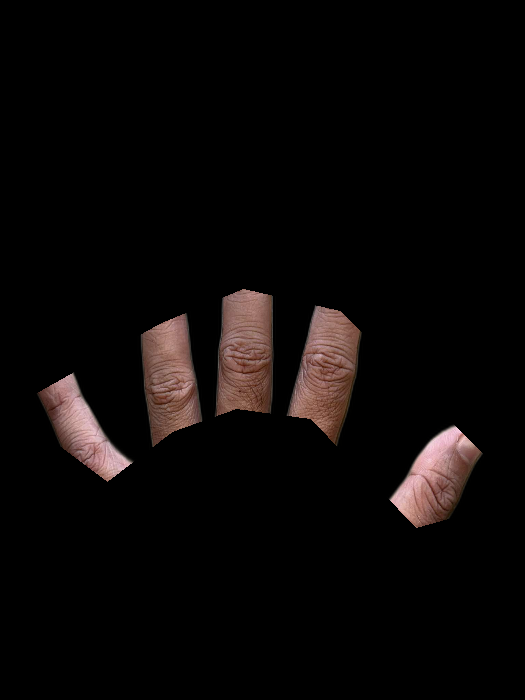
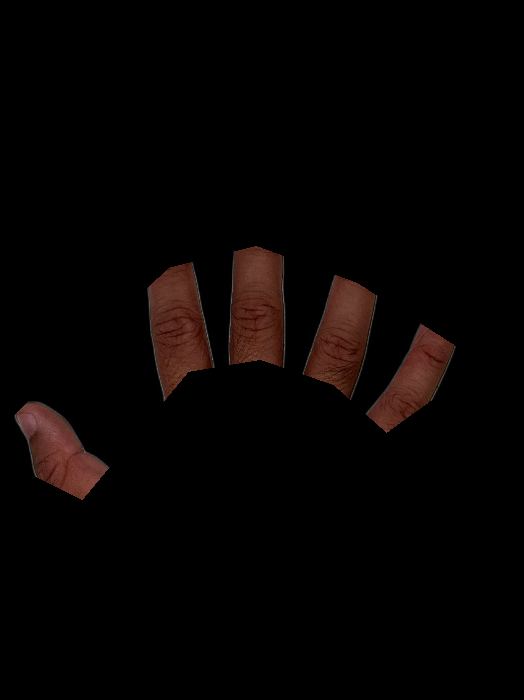
feat: final commit

diff --git a/server-api.py b/server-api.py
@@ -79,6 +79,20 @@ def trackWrist(image):
     return wrist, hand_label
 
 def removeBG(image):
+
+    # # Convert to float32 for more precise operations
+    # lab = cv2.cvtColor(image, cv2.COLOR_BGR2LAB)
+    # l, a, b = cv2.split(lab)
+
+    # # Reduce contrast by adjusting L-channel intensity
+    # l = cv2.addWeighted(l, 1.4, np.full(l.shape, 128, dtype=np.uint8), 0, 0)
+
+    # # Merge back and convert to BGR
+    # lab = cv2.merge((l, a, b))
+    # image = cv2.cvtColor(lab, cv2.COLOR_LAB2BGR)
+
+    # cv2.imwrite("processed/contrast_adjusted.jpg", image)
+
     if isinstance(image, np.ndarray):
         image = Image.fromarray(cv2.cvtColor(image, cv2.COLOR_BGR2RGB))
     else:
@@ -94,7 +108,11 @@ def removeBG(image):
             output_image = np.array(output_image)
         output_image = cv2.cvtColor(output_image, cv2.COLOR_RGB2BGR)
         
+        
+
         return output_image
+    
+        
     except Exception as e:
         print(f"Background removal error: {e}")
         return None
@@ -144,6 +162,7 @@ def measure_fingers():
     orig_image = cv2.imdecode(np.frombuffer(file.read(), np.uint8), cv2.IMREAD_COLOR)
     
     # Scale down image for faster processing
+    # scaled_image = orig_image
     scaled_image = scale_down_image(orig_image)
     
     noBG = removeBG(scaled_image)
@@ -151,12 +170,15 @@ def measure_fingers():
         return jsonify({"error", "Failed to remove background"}), 400
         
     # Detect coin in BG-removed image, if none present, default to orig img
+    cv2.imwrite("processed/removed_contrasted_image.jpg", noBG)
+
+
 
     coin_detected = detect_coin_contour(noBG)
     print("detected a coin:", coin_detected)
     finger_mask, hand_label = trackFinger(noBG)
     
-    #cv2.imwrite('processed/finger_mask.png', finger_mask)
+    cv2.imwrite('processed/finger_mask.png', finger_mask)
     
     calSizeImg = None
     
@@ -165,12 +187,12 @@ def measure_fingers():
     else:
         calSizeImg = noBG
         
-    #cv2.imwrite('processed/temp.jpg', calSizeImg)
+    cv2.imwrite('processed/temp.jpg', calSizeImg)
         
     data, processed_image = calsize.sizeCalculateFingers(calSizeImg, finger_mask, hand_label, reference_width)
     print('HAND LABEL {}'.format(hand_label))
     
-    #cv2.imwrite('processed/processed_image_fingers.jpg', processed_image)
+    cv2.imwrite('processed/processed_image_fingers.jpg', processed_image)
     
     # print(response)
     

diff --git a/calsize.py b/calsize.py
@@ -15,7 +15,7 @@ def sizeCalculateFingers(noBGorScaled, finger_mask, hand_label, reference_width)
     #cv2.imwrite('temp_image.jpg', noBGorScaled)
 
     gray = cv2.cvtColor(noBGorScaled, cv2.COLOR_BGR2GRAY)
-    blur = cv2.GaussianBlur(gray, (9, 9), 0)
+    blur = cv2.GaussianBlur(gray, (3, 3), 2)
 
     edged = cv2.Canny(blur, 50, 100)
     edged = cv2.dilate(edged, None, iterations=1)
@@ -61,6 +61,8 @@ def sizeCalculateFingers(noBGorScaled, finger_mask, hand_label, reference_width)
     # Find contours
     cnts = cv2.findContours(edged.copy(), cv2.RETR_EXTERNAL, cv2.CHAIN_APPROX_SIMPLE)
     cnts = imutils.grab_contours(cnts)
+
+    # print("count:", cnts)
 
     # Sort contours from left to right as leftmost contour is reference object
     (cnts, _) = contours.sort_contours(cnts)
@@ -111,6 +113,7 @@ def sizeCalculateFingers(noBGorScaled, finger_mask, hand_label, reference_width)
         
         # Store the final average measurement as float
         finger_measurements[finger_name] = avg_wid
+        cv2.drawContours(noBGorScaled, [box.astype("int")], -1, (0, 0, 255), 1)
         # Draw the measurement on the image
         mid_pt_horizontal = (tl[0] + int(abs(tr[0] - tl[0]) / 2), tl[1] + int(abs(tr[1] - tl[1]) / 2))
         mid_pt_vertical = (tr[0] + int(abs(tr[0] - br[0]) / 2), tr[1] + int(abs(tr[1] - br[1]) / 2))
